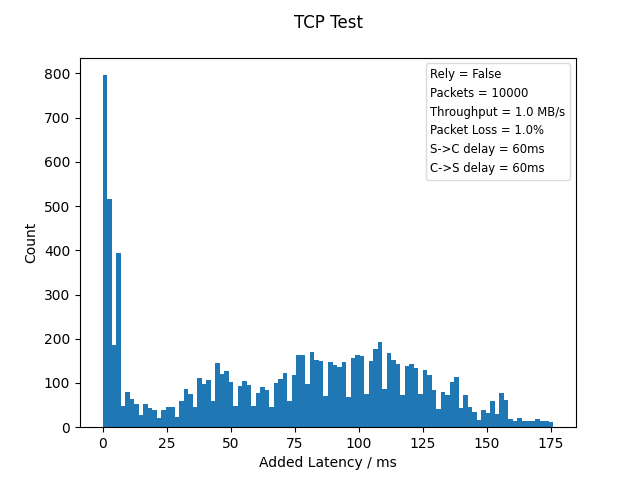
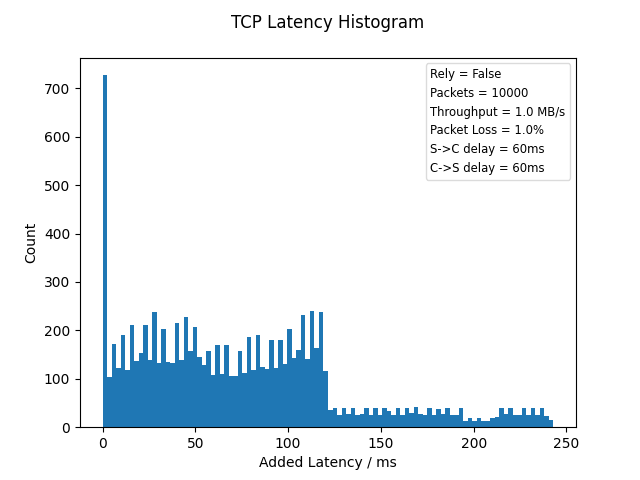
Add index plot (#3)
* changed the plots

* updated README

diff --git a/tcp_test/client.py b/tcp_test/client.py
@@ -4,10 +4,10 @@ import time
 import atexit
 import json
 import os
+import numpy as np
 import pandas as pd
 import matplotlib.pyplot as plt
 import matplotlib.patches as mpl_patches
-from matplotlib.legend import Legend
 import argparse
 
 
@@ -34,11 +34,52 @@ def latencies(
     throughput: int,
     rely_on: bool,
 ):
+    latency_dict["packet_index"] = [
+        i for i in range(len(latency_dict["Added Latency / ms"]))
+    ]
     df = pd.DataFrame(latency_dict)
     print(df)
     plt.hist(x="Added Latency / ms", bins=100, data=df)
     plt.xlabel("Added Latency / ms")
     plt.ylabel("Count")
+    handles = [
+        mpl_patches.Rectangle((0, 10), 1, 1, fc="white", ec="white", lw=0, alpha=0)
+    ] * 6
+
+    mean_latency = np.mean(df["Added Latency / ms"])
+
+    labels = []
+    labels.append(f"Rely = {rely_on}")
+    if rely_on:
+        labels.append("Repair rate = 16.6%")
+    labels.append(f"Packets = {packets}")
+    labels.append(f"Throughput = {throughput} MB/s")
+    labels.append(f"Packet Loss = {packet_loss}%")
+    labels.append(f"S->C delay = {server_latency}ms")
+    labels.append(f"C->S delay = {client_latency}ms")
+    labels.append(f"Mean added latency = {mean_latency}")
+    plt.legend(
+        handles,
+        labels,
+        loc=0,
+        fontsize="small",
+        fancybox=True,
+        framealpha=0.7,
+        handlelength=0,
+        handletextpad=0,
+    )
+    plt.title(f"TCP Latency Histogram\n")
+    plt.show()
+
+    plt.plot(
+        "packet_index",
+        "Added Latency / ms",
+        "o",
+        data=df,
+    )
+
+    plt.xlabel("Packet Index")
+    plt.ylabel("Added Latency / ms")
     handles = [
         mpl_patches.Rectangle((0, 10), 1, 1, fc="white", ec="white", lw=0, alpha=0)
     ] * 6
@@ -52,6 +93,7 @@ def latencies(
     labels.append(f"Packet Loss = {packet_loss}%")
     labels.append(f"S->C delay = {server_latency}ms")
     labels.append(f"C->S delay = {client_latency}ms")
+    labels.append(f"Mean added latency = {mean_latency}")
     plt.legend(
         handles,
         labels,
@@ -62,7 +104,7 @@ def latencies(
         handlelength=0,
         handletextpad=0,
     )
-    plt.title(f"TCP Test\n")
+    plt.title(f"TCP Per-packet-latency\n")
     plt.show()
 
 

diff --git a/README.rst b/README.rst
@@ -2,17 +2,37 @@
 TCP Testing (Linux)
 ====================
 
-This repo is Steinwurf's public TCP-testing python3 program, used to showcase the power of Rely utilized under a TCP stream.
+This repo is Steinwurf's public TCP-testing python3 program, used to showcase the power of Forward Erasure Correction (FEC) - more specifically our library Rely - utilized under a TCP stream.
+It runs a test that measures the latency added to each packet and returns plots to visualize this metric.
+
+Reasoning
+---------
+
+When TCP experiences a packet loss, it will attempt to retransmit the packet and block other packets from being sent until an acknowledgement (ACK) is received. This is to ensure that the bytestream is received in order.
+This behaviour will add latency to not only the initially lost packet, but also the succesive packets until the protocol catches up.
+
+To test our FEC-library Rely, we wanted to set up a demo, where Rely is setup in a layer underneath the TCP in an attempt to fix the packet losses before TCP would otherwise act on them, and thus stop the connection from going out of hand.
+
+The TCP also has a mechanism that holds back packets until it has a sufficient amount of data to send. This algorithm is called `Nagle's Algorithm <https://en.wikipedia.org/wiki/Nagle%27s_algorithm>`_ .
+Nagle's algorithm would add further unnecessary latency if the throughput of the stream is low. Therefore we have decided to turn Nagle's algorithm off in the TCP Stream. The algorithm could become optional in future versions.
+
+For further details about TCP see the `Wikipedia Page <https://en.wikipedia.org/wiki/Transmission_Control_Protocol>`_
+
+
+Technicalities
+--------------
 
 The script creates two network namespaces 'client' and 'server' and sets up two veths between them, adds delay and packet loss between them
 using the Linux "ip" command (requires Super-User privileges and thus password).
 
-The server and client scripts are then run in separate terminals from each of their namespaces, and two TCP sockets are set up. The server then sends packets to the client
+The server and client scripts are then run in separate terminals from each of their namespaces, and two TCP sockets are set up in Python3 with the TCP_NODELAY socket option (Turn of Nagle's algorithm). The server then timestamps, indexes and sends packets to the client
 and delay or throughput is measured on the client side.
 
-If the selected mode is histogram, the script returns a histogram plot after each test-case, e.g:
+If the selected mode is histogram, the script returns a added-latency-histogram plot and a packet-index vs added-latency plot after each test-case, e.g:
 
 .. image:: ./examples/tcp_hist.png
+
+.. image:: ./examples/tcp_scatter.png
 
 If this is run on a linux machine where the super-user command is not 'sudo' this must be altered in main.py and setup.py to the approriate setup.
 
